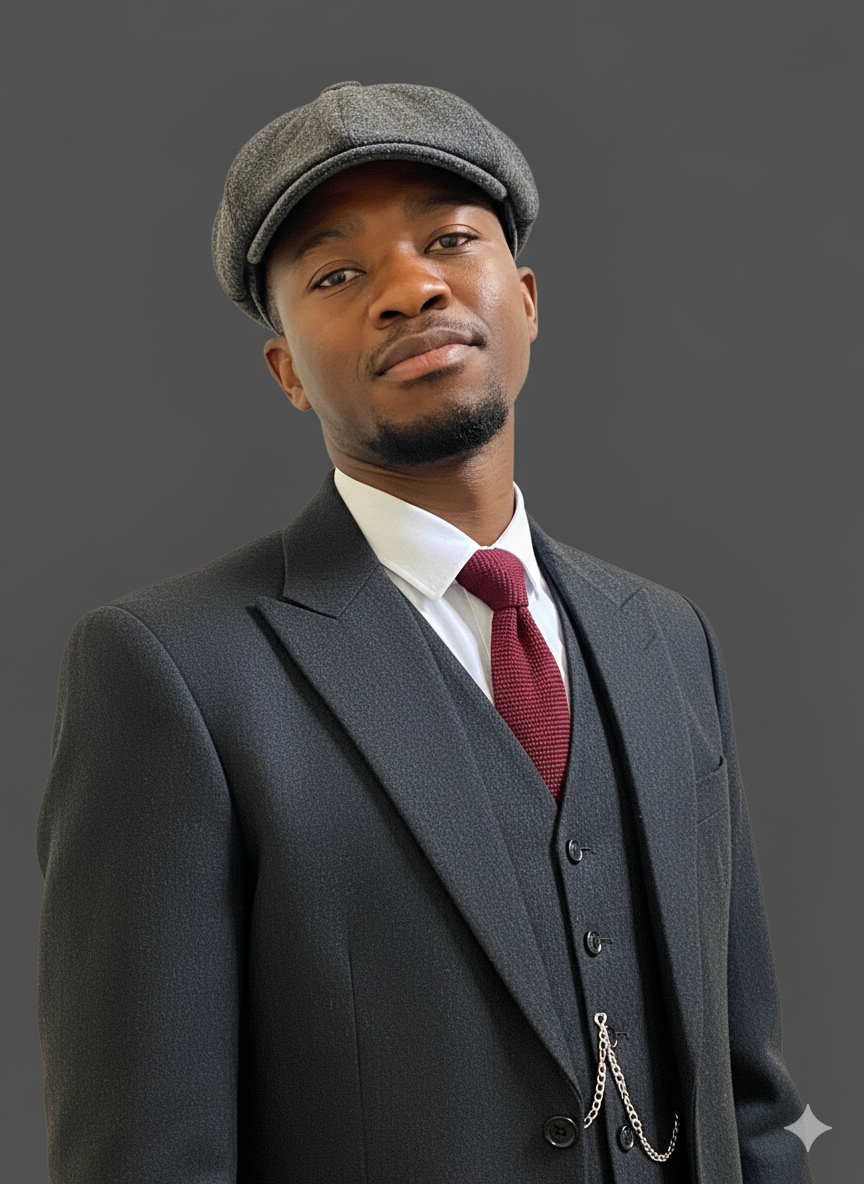
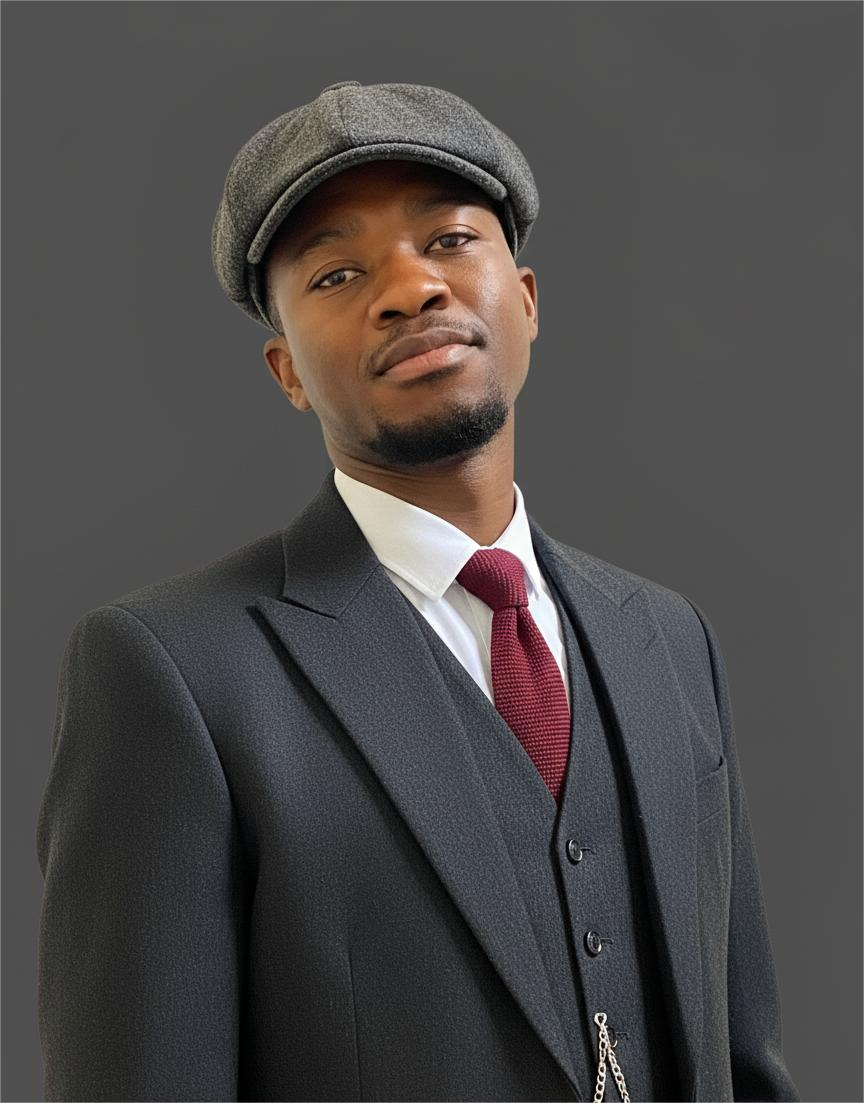
morphing text speed

diff --git a/components/ui/morphing-text.tsx b/components/ui/morphing-text.tsx
@@ -3,8 +3,8 @@
 import { useCallback, useEffect, useRef } from 'react'
 import { cn } from '@/lib/utils'
 
-const morphTime = 2.5
-const cooldownTime = 1.5
+const morphTime = 3.5
+const cooldownTime = 2.5
 
 interface MorphingTextProps {
   texts: readonly string[]
@@ -26,13 +26,14 @@ export function MorphingText({ texts, className }: MorphingTextProps) {
 
       if (!current1 || !current2) return
 
-      current2.style.filter = `blur(${Math.min(8 / fraction - 8, 100)}px)`
-      current2.style.opacity = `${Math.pow(fraction, 0.4) * 100}%`
+      // Slower, more gradual blur transition
+      current2.style.filter = `blur(${Math.min(12 / fraction - 12, 100)}px)`
+      current2.style.opacity = `${Math.pow(fraction, 0.6) * 100}%`
 
       const invertedFraction = 1 - fraction
 
-      current1.style.filter = `blur(${Math.min(8 / invertedFraction - 8, 100)}px)`
-      current1.style.opacity = `${Math.pow(invertedFraction, 0.4) * 100}%`
+      current1.style.filter = `blur(${Math.min(12 / invertedFraction - 12, 100)}px)`
+      current1.style.opacity = `${Math.pow(invertedFraction, 0.6) * 100}%`
 
       current1.textContent = texts[textIndexRef.current % texts.length]
       current2.textContent = texts[(textIndexRef.current + 1) % texts.length]

diff --git a/components/sections/epic-about.tsx b/components/sections/epic-about.tsx
@@ -136,7 +136,7 @@ export function EpicAbout() {
                 <img
                   src={personal.avatar}
                   alt={personal.name}
-                  className="w-full h-full object-cover rounded-3xl"
+                  className="w-[100%] h-full object-cover rounded-3xl"
                 />
                 
                 {/* Glowing Border */}
